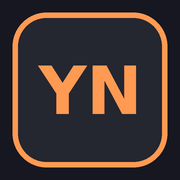
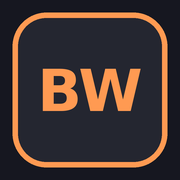
Real content throughout: name, links, roles, education, metadata
Fills the remaining placeholders. The page title, description, social card
text and the no-JS fallbacks now carry the real name, tagline, contact links
and current role instead of TBD text, and the share image and icons are
regenerated with the name on them.

Also corrects the FastFetch titles to meet at May 2023 rather than overlap.

Changed region(s): [[0.1944, 0.3611, 0.7778, 0.6389]]

diff --git a/js/content.js b/js/content.js
@@ -4,7 +4,7 @@
 window.SITE = {
   name: 'Brandon Wingard',
   initials: 'BW',
-  tagline: 'Full-stack developer and data scientist, building in Rust, Python and C.',   // DRAFT
+  tagline: 'Full-stack developer and data scientist, building in Rust, Python and C.',
   status: 'Open to collaboration',
   city: 'Vienna, Austria',
   timeZone: 'Europe/Vienna',
@@ -15,36 +15,46 @@ window.SITE = {
   //        omit for a plain accent dot.
   // size: optional node size multiplier (1 = normal).
   anchors: [
-    { name: 'Hyderabad, India', location: [17.385, 78.4867] },
-    { name: 'Tokyo, Japan', location: [35.6762, 139.6503] },
+    // Original Base of Operations Vienna will go here if I move
     { name: 'Greenville, SC, USA', location: [34.8526, -82.394], style: 'highlight' },
-    { name: 'Augusta, GA, USA', location: [33.4735, -82.0105] },
-    { name: 'Huntington Beach, CA, USA', location: [33.6603, -117.9992] },
-    { name: 'Toronto, Canada', location: [43.6532, -79.3832] },
+
+    // IAEA Project Locations
+    { name: 'Tokyo, Japan', location: [35.6762, 139.6503] },                // TOK
+    { name: 'Toronto, Canada', location: [43.6532, -79.3832] },             // TOR
+    { name: 'Luxembourg', location: [49.6116, 6.1319] },                    // EURATOM
+    { name: 'Rio de Janeiro, Brazil', location: [-22.9068, -43.1729] },     // ABACC
+
+    { name: 'Mol, Belgium', location: [51.1906, 5.115] },                   // RECUMO
+    { name: 'Cape Town, South Africa', location: [-33.9249, 18.4241] },     // AZBDT NPP
+    { name: 'Aomori, Japan', location: [40.8222, 140.7474] },               // JMOX NPP
+    { name: 'CERN, Switzerland', location: [46.233, 6.0557] },              // CHZ NPP
+    { name: 'Paks, Hungary', location: [46.6225, 18.8558] },                // Paks NPP
+    { name: 'Taipei, Taiwan', location: [25.033, 121.5654] },               // Taiwan NPP
+    { name: 'Chippawa Hill, ON, Canada', location: [44.5124, -81.3297] },   // Bruce NPP
+
+    // Supply Chain Technology Project Management
+    { name: 'Hyderabad, India', location: [17.385, 78.4867] },              // Supply Chain Technology India Campus
+    // Supply Chain Technology Project Locations
+    { name: 'Huntington Beach, CA, USA', location: [33.6603, -117.9992] },  // Hybrid Apparel
+    { name: 'San Bernardino, CA, USA', location: [34.1083, -117.2898] },    // Hybrid Apparel
+    { name: 'Orlando, FL, USA', location: [28.5383, -81.3792] },            // 
+ 
+    // FastFetch by ABCO Location
     { name: 'East Rutherford, NJ, USA', location: [40.8339, -74.0971] },
-    { name: 'Crystal Lake, IL, USA', location: [42.2411, -88.3162] },
-    { name: 'Luxembourg', location: [49.6116, 6.1319] },
-    { name: 'Mol, Belgium', location: [51.1906, 5.115] },
-    { name: 'Rio de Janeiro, Brazil', location: [-22.9068, -43.1729] },
-    { name: 'Cape Town, South Africa', location: [-33.9249, 18.4241] },
-    { name: 'Aomori, Japan', location: [40.8222, 140.7474] },
-    { name: 'CERN, Switzerland', location: [46.233, 6.0557] },
-    { name: 'Paks, Hungary', location: [46.6225, 18.8558] },
-    { name: 'Taipei, Taiwan', location: [25.033, 121.5654] },
-    { name: 'Chippawa Hill, ON, Canada', location: [44.5124, -81.3297] },
-    // Project locations
-    { name: 'Mebane, NC, USA', location: [36.096, -79.267] },
-    { name: 'Charlotte, NC, USA', location: [35.2271, -80.8431] },
-    { name: 'Harrisburg, NC, USA', location: [35.3238, -80.6498] },
-    { name: 'Orlando, FL, USA', location: [28.5383, -81.3792] },
-    { name: 'Arlington, TX, USA', location: [32.7357, -97.1081] },
-    { name: 'San Bernardino, CA, USA', location: [34.1083, -117.2898] },
-    { name: 'Chanhassen, MN, USA', location: [44.8622, -93.5307] },
+    // FastFetch Corp Project Locations
+    { name: 'Augusta, GA, USA', location: [33.4735, -82.0105] },      // Seeds 'n' Such
+    { name: 'Crystal Lake, IL, USA', location: [42.2411, -88.3162] }, // Snap-on Tools
+    { name: 'Mebane, NC, USA', location: [36.096, -79.267] },         // Sports Endeavours
+    { name: 'Charlotte, NC, USA', location: [35.2271, -80.8431] },    // 
+    { name: 'Harrisburg, NC, USA', location: [35.3238, -80.6498] },   // Saddle Creek Logistics
+    { name: 'Arlington, TX, USA', location: [32.7357, -97.1081] },    // Staci Americas/AMWare
+    { name: 'Chanhassen, MN, USA', location: [44.8622, -93.5307] },   // Waytek Wire
+ 
   ],
   links: {
-    github: 'https://github.com/aegisssc',
-    linkedin: '',               // TBD — empty string = hidden
-    email: '',                  // TBD — empty string = hidden
+    github:   'https://github.com/aegisssc',
+    linkedin: 'https://www.linkedin.com/in/brandon-wingard-4886b7148/',   // empty string = hidden
+    email:    'wingardbrandonm@gmail.com',                                // empty string = hidden
   },
   // Tools carousel. Each icon is the OFFICIAL brand-coloured mark served by
   // https://cdn.simpleicons.org/<slug>; adding /<hex> after the slug recolours it.
@@ -57,22 +67,21 @@ window.SITE = {
   // near-black mark on the dark theme is the one real case).
   // js/main.js swaps the URLs whenever <html data-theme> changes.
   tools: [
-    { name: 'Git', slug: 'git' },                        // #F03C2E
-    { name: 'GitHub', slug: 'github', dark: 'ECEFF4' },  // #181717 is invisible on the dark bg
-    { name: 'Linux', slug: 'linux' },                    // #FCC624
-    { name: 'Python', slug: 'python' },                  // #3776AB
-    { name: 'JavaScript', slug: 'javascript' },          // #F7DF1E
-    { name: 'HTML5', slug: 'html5' },                    // #E34F26
-    { name: 'CSS', slug: 'css' },                        // #663399
-    { name: 'Docker', slug: 'docker' },                  // #2496ED
-    { name: 'VS Code', slug: 'vscodium' },               // #2F80ED
-    { name: 'Bash', slug: 'gnubash' },                   // #4EAA25
+    { name: 'Git',        slug: 'git' },                     // #F03C2E
+    { name: 'GitHub',     slug: 'github', dark: 'ECEFF4' },  // #181717 is invisible on the dark bg
+    { name: 'Linux',      slug: 'linux' },                   // #FCC624
+    { name: 'Python',     slug: 'python' },                  // #3776AB
+    { name: 'JavaScript', slug: 'javascript' },              // #F7DF1E
+    { name: 'HTML5',      slug: 'html5' },                   // #E34F26
+    { name: 'CSS',        slug: 'css' },                     // #663399
+    { name: 'Docker',     slug: 'docker' },                  // #2496ED
+    { name: 'VS Code',    slug: 'vscodium' },                // #2F80ED
+    { name: 'Bash',       slug: 'gnubash' },                 // #4EAA25
   ],
-  // About: 3-5 sentences. TBD - replace with the owner's own words.
+  // About: the paragraphs under the About heading.
   about: [
-    // DRAFT — written from the GitHub profile; replace with your own words.
     'Full-stack developer and data scientist based in Vienna, with a B.S. in Computer Science from Clemson. I work across the stack, from systems code in Rust and C to data pipelines and models in Python.',
-    'TBD: what you are working on now, and what you are looking for.',
+    'I am currently working on data security and distributed systems.',
   ],
   // Hand-picked projects, in the order they appear on the page.
   // To change what Projects shows, edit this list — nothing else needs to change.
@@ -84,7 +93,7 @@ window.SITE = {
   projects: [
     {
       name: 'city-gen-rs',
-      blurb: 'TBD: a procedural city generator in Rust.',
+      blurb: 'A procedural city generator in Rust.',
       url: 'https://github.com/AegisSSC/city-gen-rs',
       tags: ['Rust', 'Procedural generation'],
     },
@@ -125,12 +134,12 @@ window.SITE = {
       tags: ['Python', 'Pandas', 'Analysis'],
     },
   ],
-  // Skill groups. TBD - drafted from the repos above; the owner should correct these.
+  // Skill groups shown under Skills.
   skills: [
-    { group: 'Languages', items: ['Rust', 'Python', 'C', 'TypeScript', 'JavaScript', 'Lua'] },
-    { group: 'Web', items: ['SvelteKit', 'HTML', 'CSS', 'Markdown'] },
-    { group: 'Data', items: ['Pandas', 'Linfa', 'Jupyter'] },
-    { group: 'Systems & tools', items: ['Linux', 'Git', 'Neovim', 'OpenGL'] },
+    { group: 'Languages', items: ['Rust', 'Python', 'C', 'C++', 'R','TypeScript', 'JavaScript', 'Lua'] },
+    { group: 'Web', items: ['SvelteKit', 'React', 'HTML', 'CSS', 'Markdown'] },
+    { group: 'Data', items: ['Pandas', 'Numpy', 'Scikit', 'Linfa', 'Jupyter'] },
+    { group: 'Systems & tools', items: ['Linux', 'Git', 'Neovim', 'OpenGL', 'Terraform'] },
   ],
   // Experience, newest first - the order here is the order on the page.
   //   role  (required) job title; an entry without one is skipped
@@ -140,7 +149,6 @@ window.SITE = {
   //   end   (required) same format, or 'Present' for a current role
   //   blurb (optional) one or two sentences about the work
   //   tags  (optional) small pills, e.g. ['Rust', 'Embedded']
-  // TBD - both entries below are placeholders; replace them with real roles.
   experience: [
     {
       role: 'Associate Equipment Data Management Engineer',
@@ -148,7 +156,7 @@ window.SITE = {
       place: 'Vienna, Austria',
       start: 'September 2025',
       end: 'Present',
-      blurb: 'TBD: one or two sentences about what you did and what it ran on.',
+      blurb: 'Primary Network and Data Management lead for JMOX. Lead developer on Distributed Network SoH monitoring.',
       tags: ['Cybersecurity', 'Distributed Systems', 'InfraOps', 'Fullstack Development'],
     },
     {
@@ -157,7 +165,7 @@ window.SITE = {
       place: 'Greenville, SC, USA',
       start: 'September 2024',
       end: 'August 2025',
-      blurb: 'TBD: one or two sentences about the earlier role.',
+      blurb: 'Worked as a Scrum Master for a multinational team providing features to clients across the world. Lead the Experimental AI efforts to explore optimizations in supplychain workflows',
       tags: ['Fullstack Development', 'ML/AI'],
     },
     {
@@ -166,10 +174,10 @@ window.SITE = {
       org: 'FastFetch Corporation',
       place: 'Seneca, SC, USA',
       roles: [
-        { role: 'Lead Software Engineer', start: 'June 2023', end: 'August 2024' },   // TBD: confirm the promotion month
-        { role: 'Software Engineer', start: 'June 2022', end: 'June 2023' },
+        { role: 'Lead Software Engineer', start: 'May 2023', end: 'August 2024' }, 
+        { role: 'Software Engineer', start: 'June 2022', end: 'May 2023' },
       ],
-      blurb: 'TBD: one or two sentences about the work, and what changed when you took the lead.',
+      blurb: 'Served as Primary Client-Facing Project Manager and as a new product software lead.',
       tags: ['Fullstack Development', 'Web Development', 'Project Management', 'Client Engagement', 'ML/AI'],
     },
     {
@@ -178,7 +186,7 @@ window.SITE = {
       place: 'Clemson, SC, USA',
       start: 'January 2020',
       end: 'May 2022',
-      blurb: 'TBD: one or two sentences about the earlier role.',
+      blurb: 'Focused primarily on Computer Vision Guided Micro-Arial Vehicles. Also conducted research on both Lossless and Lossy Data Compression.',
       tags: ['HPC', 'ML/CV','mUAV'],
     },
   ],
@@ -189,7 +197,6 @@ window.SITE = {
   //   start  (required) free text, e.g. '2019'
   //   end    (required) same format, or 'Present' while still studying
   //   blurb  (optional) one or two sentences - focus, thesis, honours
-  // TBD - both entries below are placeholders; replace them with real studies.
   education: [
     {
       degree: 'B.S. Computer Science',
@@ -197,7 +204,6 @@ window.SITE = {
       place: 'Clemson, SC, USA',
       start: '2018',
       end: '2022',
-      blurb: 'TBD: focus, concentration or anything worth naming.',
     },
   ],
   // GitHub contribution chart (Activity section).

diff --git a/index.html b/index.html
@@ -3,29 +3,27 @@
 <head>
   <meta charset="utf-8">
   <meta name="viewport" content="width=device-width, initial-scale=1, viewport-fit=cover">
-  <!-- TBD: replace "Your Name" with your real name -->
-  <title>Your Name — Portfolio</title>
-  <!-- TBD: swap "Your Name" here (and in the og:/twitter: tags below) for the real name -->
-  <meta name="description" content="Portfolio of Your Name — a software developer in Vienna, Austria, building projects in Rust, Python and C.">
+  <title>Brandon Wingard — Portfolio</title>
+  <meta name="description" content="Portfolio of Brandon Wingard — full-stack developer and data scientist in Vienna, Austria, working in Rust, Python and C.">
   <link rel="canonical" href="https://aegisssc.github.io/">
 
   <!-- Social preview. Absolute URLs are required here; the image is generated
        by tools/make-og-image.py (re-run it after editing js/content.js). -->
   <meta property="og:type" content="website">
-  <meta property="og:site_name" content="Your Name — Portfolio">
-  <meta property="og:title" content="Your Name — Portfolio">
-  <meta property="og:description" content="Portfolio of Your Name — a software developer in Vienna, Austria, building projects in Rust, Python and C.">
+  <meta property="og:site_name" content="Brandon Wingard — Portfolio">
+  <meta property="og:title" content="Brandon Wingard — Portfolio">
+  <meta property="og:description" content="Portfolio of Brandon Wingard — full-stack developer and data scientist in Vienna, Austria, working in Rust, Python and C.">
   <meta property="og:url" content="https://aegisssc.github.io/">
   <meta property="og:image" content="https://aegisssc.github.io/images/og-image.png">
   <meta property="og:image:type" content="image/png">
   <meta property="og:image:width" content="1200">
   <meta property="og:image:height" content="630">
-  <meta property="og:image:alt" content="Dark Nord-themed card with the initials YN, the name Your Name and the address aegisssc.github.io">
+  <meta property="og:image:alt" content="Card with the initials BW, the name Brandon Wingard and the address aegisssc.github.io">
   <meta name="twitter:card" content="summary_large_image">
-  <meta name="twitter:title" content="Your Name — Portfolio">
-  <meta name="twitter:description" content="Portfolio of Your Name — a software developer in Vienna, Austria, building projects in Rust, Python and C.">
+  <meta name="twitter:title" content="Brandon Wingard — Portfolio">
+  <meta name="twitter:description" content="Portfolio of Brandon Wingard — full-stack developer and data scientist in Vienna, Austria, working in Rust, Python and C.">
   <meta name="twitter:image" content="https://aegisssc.github.io/images/og-image.png">
-  <meta name="twitter:image:alt" content="Dark Nord-themed card with the initials YN, the name Your Name and the address aegisssc.github.io">
+  <meta name="twitter:image:alt" content="Card with the initials BW, the name Brandon Wingard and the address aegisssc.github.io">
 
   <meta name="theme-color" content="#161720">
   <!-- Icons + manifest: all generated by tools/make-og-image.py -->
@@ -114,7 +112,7 @@
       <div class="avatar" aria-hidden="true" data-site="initials">YN</div>
       <span class="status-pill"><span class="dot" aria-hidden="true"></span><span data-site="status">Open to collaboration</span></span>
       <h1 class="hero-title">Hi. I'm <span class="script" data-site="name">Your Name</span></h1>
-      <p class="hero-sub" data-site="tagline">TBD one-line tagline.</p>
+      <p class="hero-sub" data-site="tagline">Full-stack developer and data scientist, building in Rust, Python and C.</p>
       <div class="hero-actions">
         <a href="#projects" class="btn btn-primary">View my projects <span class="arrow" aria-hidden="true">→</span></a>
         <a href="#contact" class="btn btn-ghost">Get in touch</a>
@@ -165,7 +163,7 @@
         <h3 class="section-title">A bit about me</h3>
         <!-- Static fallback; main.js rebuilds this from SITE.about -->
         <div class="about-text" id="aboutText">
-          <p>TBD: a short paragraph about who you are and what you build.</p>
+          <p>Full-stack developer and data scientist based in Vienna, with a B.S. in Computer Science from Clemson.</p>
         </div>
       </div>
     </section>
@@ -213,9 +211,9 @@
         <!-- Static fallback (one entry); main.js rebuilds the list from SITE.experience -->
         <ul class="timeline" id="experienceList">
           <li class="timeline-item">
-            <h4 class="timeline-role">TBD job title · TBD company</h4>
-            <p class="timeline-meta">TBD start — Present · TBD city, country</p>
-            <p class="timeline-blurb">TBD: one or two sentences about what you did.</p>
+            <h4 class="timeline-role">Associate Equipment Data Management Engineer · IAEA Department of Safeguards</h4>
+            <p class="timeline-meta">September 2025 — Present · Vienna, Austria</p>
+            <p class="timeline-blurb">Primary network and data management lead for JMOX.</p>
           </li>
         </ul>
       </div>
@@ -229,9 +227,8 @@
         <!-- Static fallback (one entry); main.js rebuilds the list from SITE.education -->
         <ul class="timeline" id="educationList">
           <li class="timeline-item">
-            <h4 class="timeline-role">TBD degree · TBD school</h4>
-            <p class="timeline-meta">TBD start — TBD end · TBD city, country</p>
-            <p class="timeline-blurb">TBD: focus, thesis or anything worth naming.</p>
+            <h4 class="timeline-role">B.S. Computer Science · Clemson University</h4>
+            <p class="timeline-meta">2018 — 2022 · Clemson, SC, USA</p>
           </li>
         </ul>
       </div>
@@ -258,11 +255,13 @@
       <div class="section-inner">
         <h2 class="section-label">Contact</h2>
         <h3 class="section-title section-title-big">Let's talk.</h3>
-        <p class="contact-text">TBD: a sentence inviting people to get in touch.</p>
-        <!-- main.js points this at mailto:SITE.links.email, or at GitHub while the email is TBD -->
-        <a id="contactPrimary" class="btn btn-primary" href="https://github.com/aegisssc" target="_blank" rel="noopener">Find me on GitHub <span class="arrow" aria-hidden="true">→</span></a>
+        <p class="contact-text">Working on something in data security, distributed systems or full-stack? I'd like to hear about it.</p>
+        <!-- main.js rebuilds this from SITE.links.email -->
+        <a id="contactPrimary" class="btn btn-primary" href="mailto:wingardbrandonm@gmail.com">Say hello <span class="arrow" aria-hidden="true">→</span></a>
         <!-- Static fallback; main.js rebuilds this list from SITE.links -->
         <ul class="contact-links" id="contactLinks">
+          <li><a href="mailto:wingardbrandonm@gmail.com">Email <span class="link-arrow" aria-hidden="true">↗</span></a></li>
+          <li><a href="https://www.linkedin.com/in/brandon-wingard-4886b7148/" target="_blank" rel="noopener">LinkedIn <span class="link-arrow" aria-hidden="true">↗</span></a></li>
           <li><a href="https://github.com/aegisssc" target="_blank" rel="noopener">GitHub <span class="link-arrow" aria-hidden="true">↗</span></a></li>
         </ul>
       </div>
@@ -272,8 +271,8 @@
   <footer class="site-footer">
     <div class="footer-inner">
       <div class="footer-brand">
-        <span class="logo-mark" data-site="initials">YN</span>
-        <p>TBD short bio.</p>
+        <span class="logo-mark" data-site="initials">BW</span>
+        <p>Full-stack developer and data scientist in Vienna, Austria.</p>
       </div>
       <div class="footer-col">
         <h2 class="footer-heading">Navigate</h2>
@@ -289,13 +288,15 @@
       </div>
       <div class="footer-col">
         <h2 class="footer-heading">Contact</h2>
-        <!-- Static fallback; main.js rebuilds this list from SITE.links (email + LinkedIn are TBD) -->
+        <!-- Static fallback; main.js rebuilds this list from SITE.links -->
         <ul id="footerLinks">
+          <li><a href="mailto:wingardbrandonm@gmail.com">Email</a></li>
+          <li><a href="https://www.linkedin.com/in/brandon-wingard-4886b7148/" target="_blank" rel="noopener">LinkedIn</a></li>
           <li><a href="https://github.com/aegisssc" target="_blank" rel="noopener">GitHub</a></li>
         </ul>
       </div>
     </div>
-    <div class="footer-bottom">© <span id="year">2026</span> <span data-site="name">Your Name</span></div>
+    <div class="footer-bottom">© <span id="year">2026</span> <span data-site="name">Brandon Wingard</span></div>
   </footer>
 </body>
 </html>
